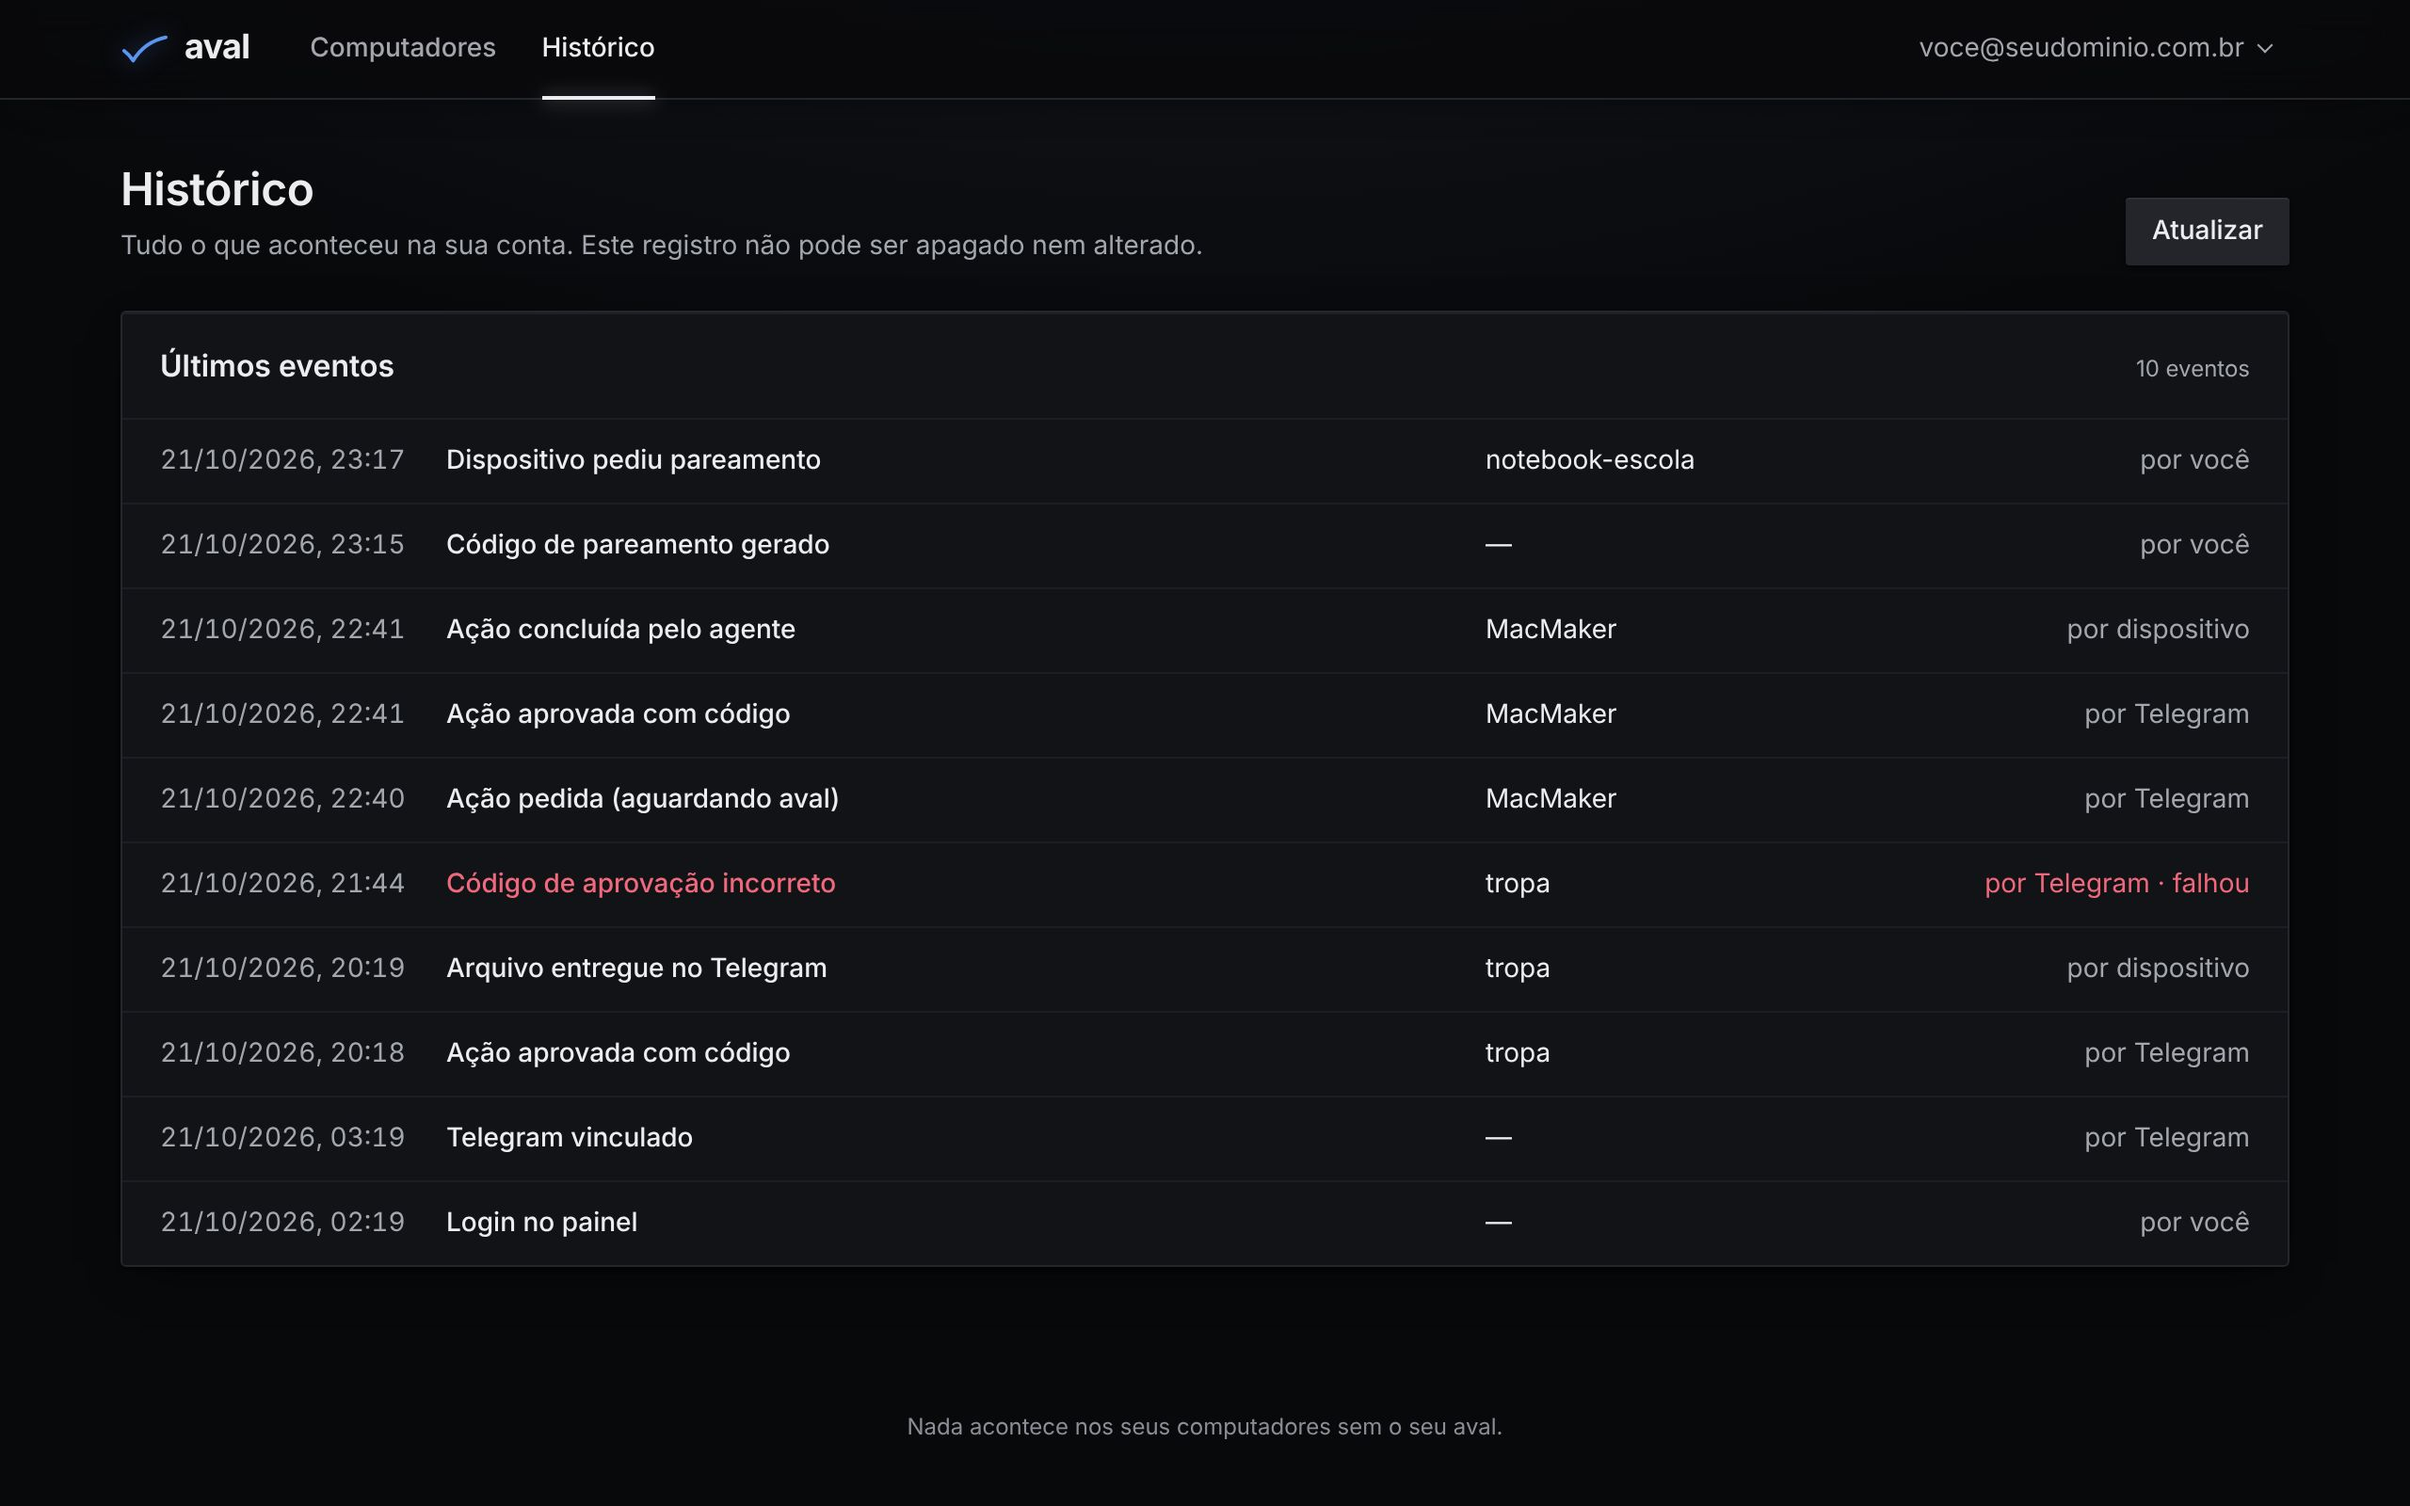
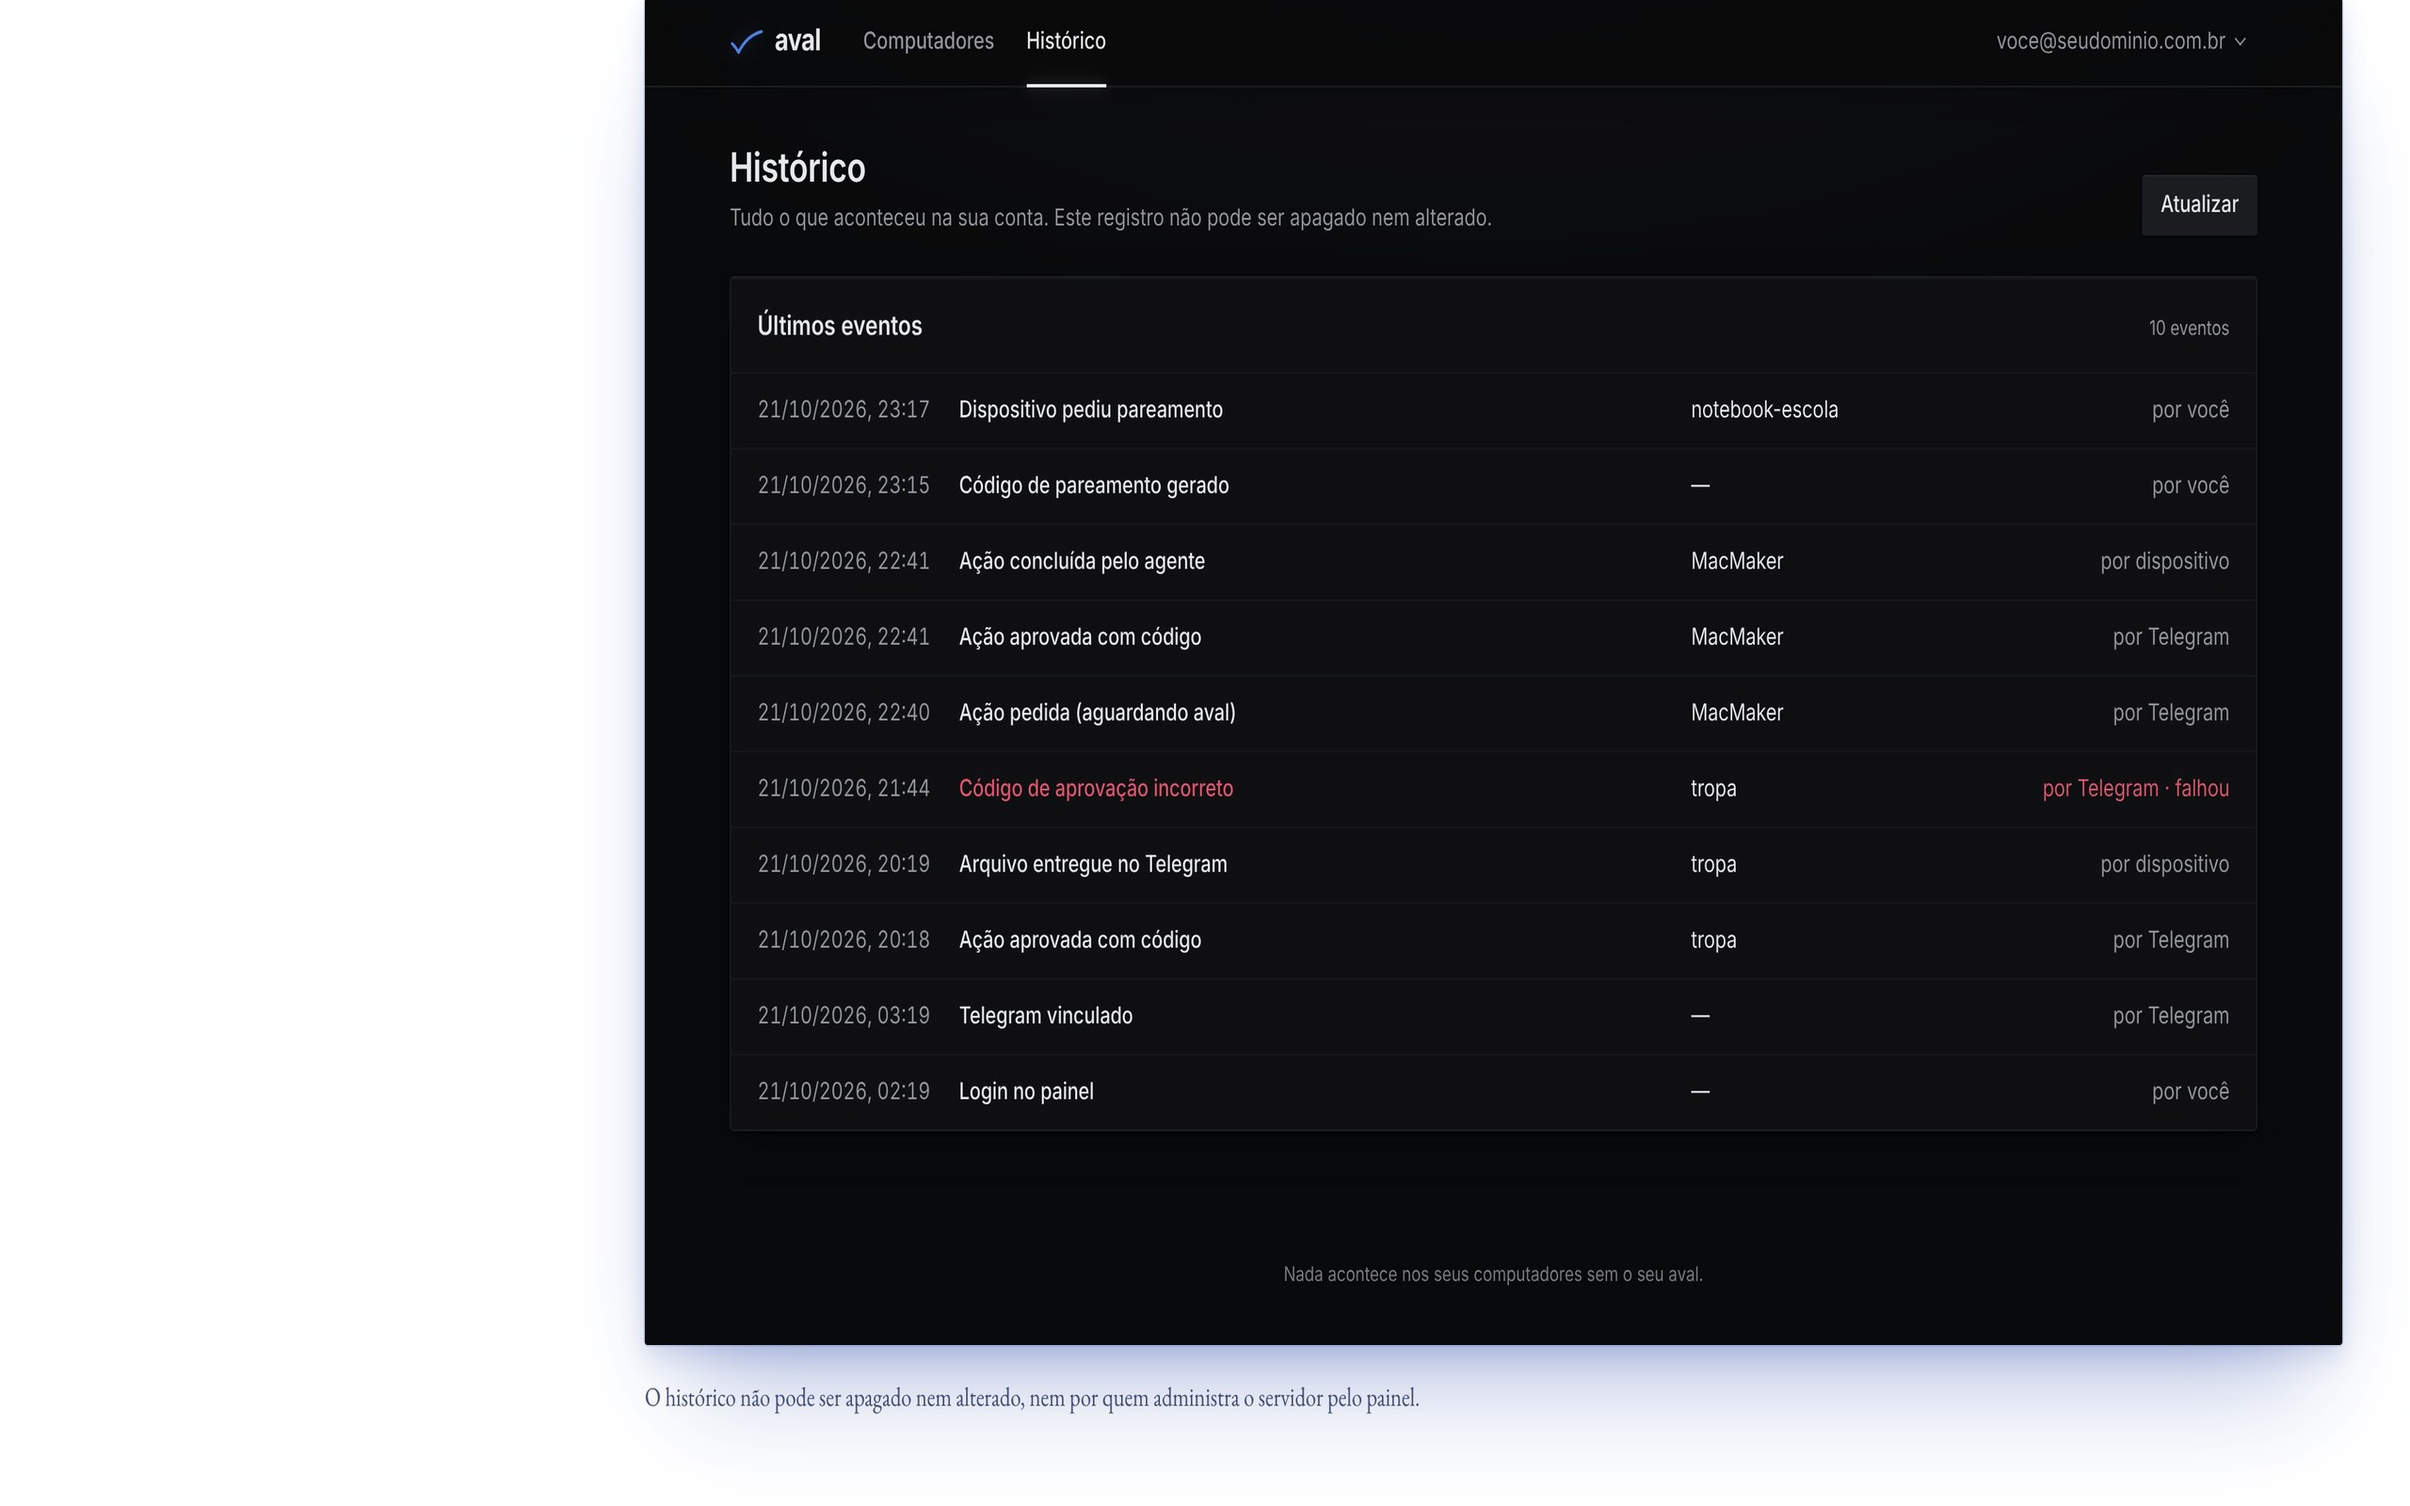
feat(site): atualizar capturas de tela da landing page (#131)
As imagens do painel estavam desatualizadas (tema escuro antigo).
Substituidas por capturas do painel atual (tema claro, graficos ao vivo,
acoes por dispositivo). Alt texts atualizados para refletir o conteudo novo.

diff --git a/deploy/release/site/index.html b/deploy/release/site/index.html
@@ -372,7 +372,7 @@ button, input { font: inherit; color: inherit; }
       <div><dt>1<span class="u">min</span></dt><dd>Entre uma medição e outra de CPU, memória, disco e temperatura.</dd></div>
     </dl>
     <figure class="intro__shot reveal-tilt" style="--d:3">
-      <div class="tilt"><div class="frame"><img src="img/painel.jpg" width="2560" height="1600" alt="Painel do Aval: quatro computadores com CPU, memória, disco e temperatura, um deles aguardando aprovação, e ao lado o e-mail, o PIN e o Telegram confirmados."></div></div>
+      <div class="tilt"><div class="frame"><img src="img/painel.jpg" width="2560" height="1600" alt="Painel do Aval: tres computadores online com CPU, memoria, disco e temperatura, e ao lado o e-mail, o PIN e o Telegram confirmados."></div></div>
       <figcaption class="caption">O painel no navegador, com dados de exemplo. Um computador novo só entra depois que você confere o código dele.</figcaption>
     </figure>
   </section>
@@ -392,7 +392,7 @@ button, input { font: inherit; color: inherit; }
         <!--DOWNLOAD_CARDS-->
       </div>
       <p class="dl-hint">No Linux, clique duas vezes no <code>.deb</code> e aperte Instalar, ou rode <code>sudo apt install ./arquivo.deb</code>. No macOS, clique duas vezes no arquivo baixado. Confira o SHA-256 se quiser ter certeza de que o arquivo chegou inteiro.</p>
-      <div class="resp"><div class="frame"><img src="img/painel-detalhe.jpg" width="1600" height="1040" loading="lazy" alt="Detalhe de um computador no painel: CPU 12%, memória 8,1 de 14,6 GB, disco 84%, temperatura 48 graus, ligado há 6 dias."></div></div>
+      <div class="resp"><div class="frame"><img src="img/painel-detalhe.jpg" width="1600" height="1040" loading="lazy" alt="Detalhe de um computador no painel: graficos de CPU e memoria ao vivo, com acoes de bloquear tela, foto e rede."></div></div>
     </div>
     <div class="step reveal">
       <h3>Depois, peça pelo Telegram, com as suas palavras.</h3>
